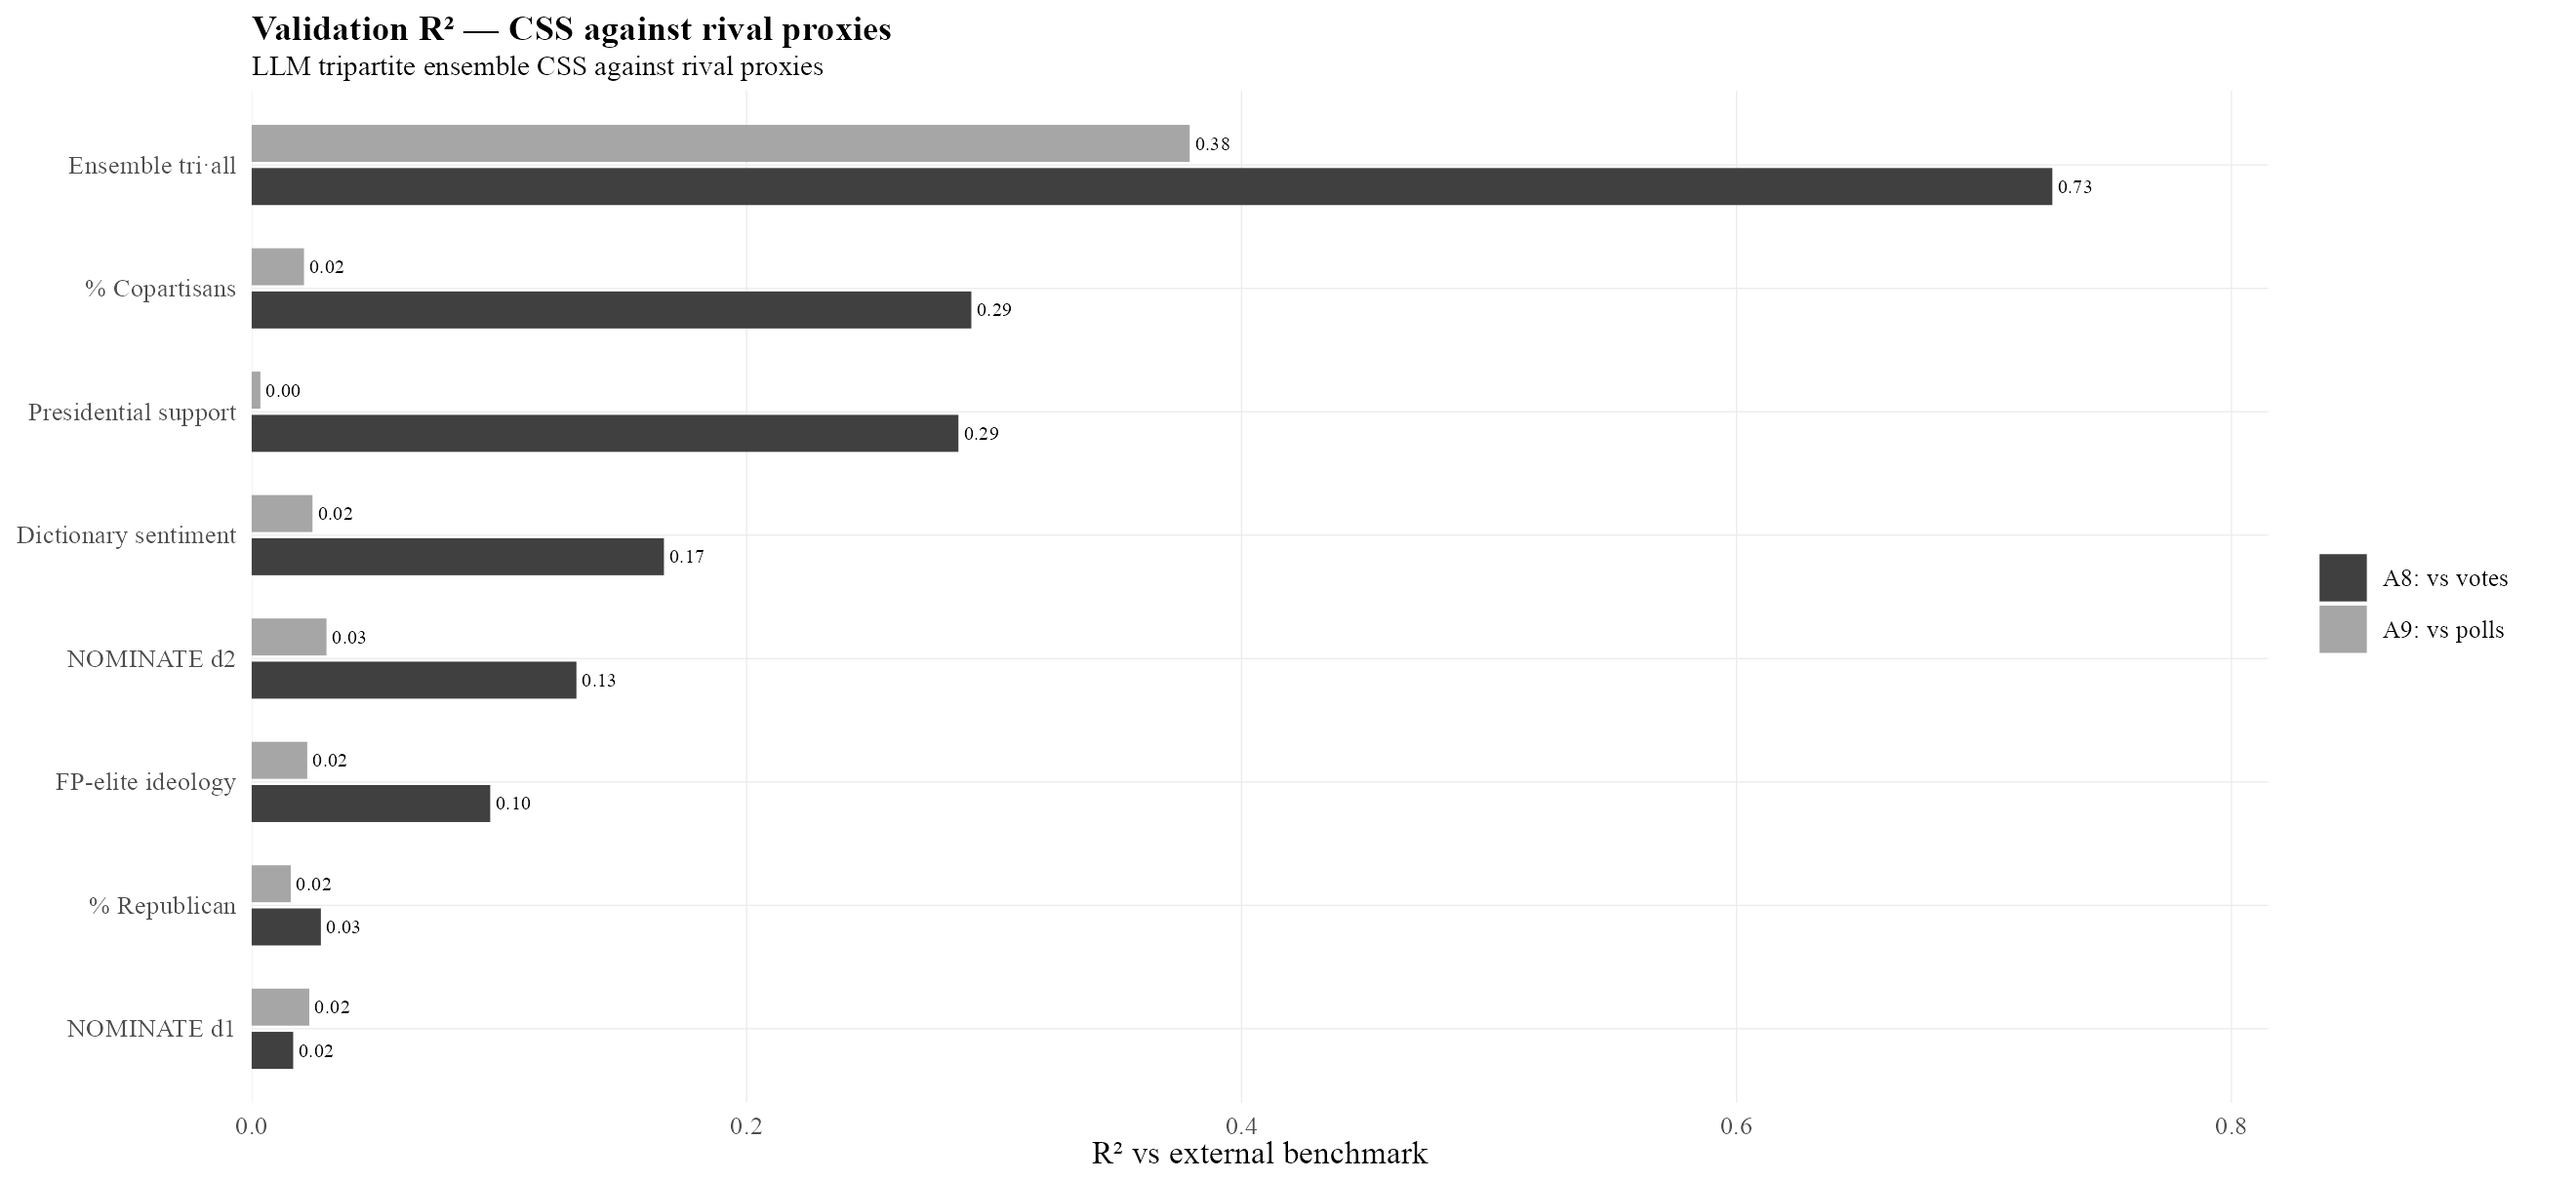
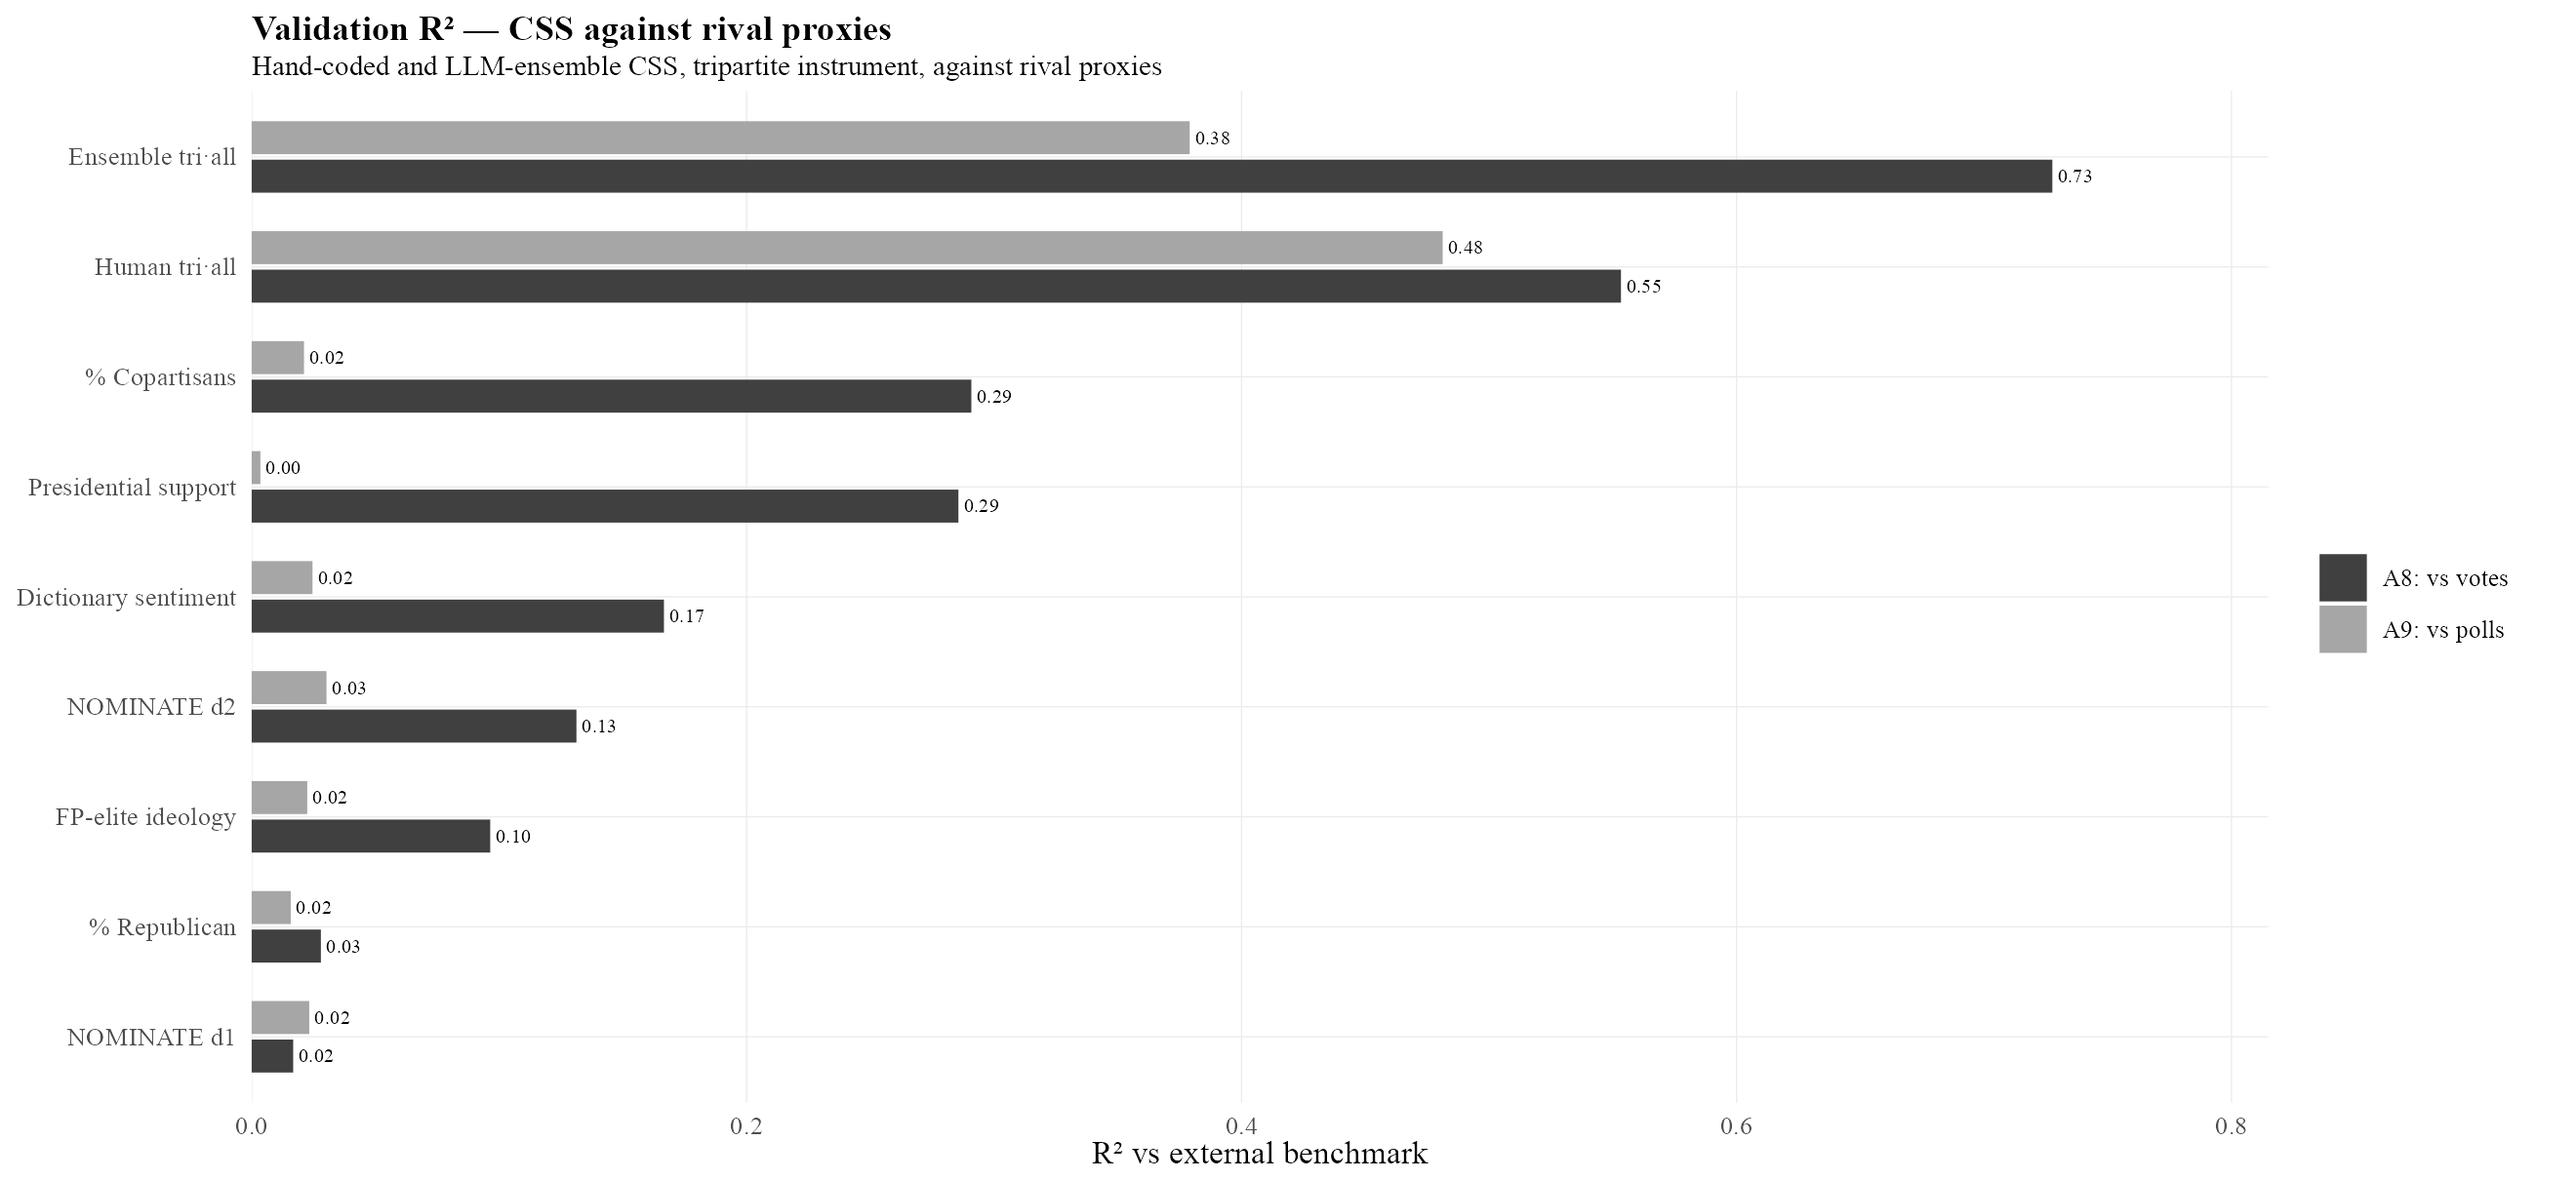
Correct the proration note on the crisis-level agreement figure
I had written that proration inflates agreement. Testing it shows the
opposite, and the effect is large.

Holding everything else fixed and varying only how thin crises are
handled (FP-elite, tripartite, statements through crisis end):

  min_n   prorate: all / human-machine   drop: all / human-machine
  5       0.764 / 0.599                  0.874 / 0.785
  10      0.783 / 0.628                  0.862 / 0.746
  20      0.806 / 0.646                  0.891 / 0.794

Proration costs about 0.11 of mean alpha at min_n=5 and about 0.19 on
the human-versus-model pairs specifically. The reason is that the count
of codeable speakers is not the same across coders - humans coded fewer
speakers than the models - so the shrinkage factor n/min_n differs by
coder and moves their scores apart rather than together.

Raising the floor from 5 to 10 does raise prorated alpha (0.764 to
0.783), but it rises monotonically all the way to min_n=20 while the
drop-based figures stay flat, which is the signature of an artifact of
shrinkage rather than a real gain in measurement quality.

Changed region(s): [[0.0, 0.0917, 0.8076, 0.9174], [0.0932, 0.0306, 0.3417, 0.0612], [0.3727, 0.0306, 0.4348, 0.0612]]

diff --git a/validation.html b/validation.html
@@ -21,7 +21,7 @@ a{color:#1a5fb4}
 <h1>Measurement validation</h1>
 <p class="tag">How the sentiment measures behave against external benchmarks, and how far
 independent coders agree at each level of aggregation.</p>
-<figure><h2>Explained variance against external benchmarks</h2><figcaption>Variance in two external benchmarks explained by each crisis-level measure: recorded use-of-force roll calls (A8) and contemporaneous public opinion (A9). The sentiment measure shown is the LLM tripartite ensemble; the remaining bars are the rival proxies against which it is conventionally judged &mdash; presidential support, NOMINATE dimensions, foreign-policy ideal points, dictionary sentiment, and partisan composition.</figcaption><a href="assets/validation/r2-table-1.png" target="_blank" rel="noopener"><img src="assets/validation/r2-table-1.png" alt="Explained variance against external benchmarks" loading="lazy"></a></figure><figure><h2>Predicting individual members&rsquo; force votes</h2><figcaption>Area under the ROC curve for predicting how an individual member voted on use-of-force roll calls, by measure. Speech-based instruments (the ISS) are compared against vote-derived rivals such as presidential support, NOMINATE dimensions and foreign-policy ideal points, and against structural baselines such as party. The comparison is at the member level and does not depend on which set of roll calls is used.</figcaption><a href="assets/validation/expanded-auc-1.png" target="_blank" rel="noopener"><img src="assets/validation/expanded-auc-1.png" alt="Predicting individual members&rsquo; force votes" loading="lazy"></a></figure><figure><h2>Inter-coder agreement &mdash; statement level</h2><figcaption>Krippendorff&rsquo;s &alpha; between every pair of coders (human, Grok, Luna, Gemini and the ensemble) on the tripartite instrument, computed on individual statements. This is the most demanding level of aggregation: it asks whether two coders assign the same position to the same sentence.</figcaption><a href="assets/validation/stmt-agreement-2.png" target="_blank" rel="noopener"><img src="assets/validation/stmt-agreement-2.png" alt="Inter-coder agreement &mdash; statement level" loading="lazy"></a></figure><figure><h2>Inter-coder agreement &mdash; member level (ISS)</h2><figcaption>The same &alpha; computed on the Individual Sentiment Score, that is, after statements are aggregated to one value per member per crisis. Aggregation averages away idiosyncratic disagreement on individual statements, so agreement is expected to exceed the statement level.</figcaption><a href="assets/validation/iss-agreement-2.png" target="_blank" rel="noopener"><img src="assets/validation/iss-agreement-2.png" alt="Inter-coder agreement &mdash; member level (ISS)" loading="lazy"></a></figure><figure><h2>Inter-coder agreement &mdash; crisis level (CSS)</h2><figcaption>The same &alpha; computed on the Congressional Sentiment Score, one value per crisis. This is the level at which the measure is actually used in analysis, and the level at which coder choice matters least.</figcaption><a href="assets/validation/css-agreement-2.png" target="_blank" rel="noopener"><img src="assets/validation/css-agreement-2.png" alt="Inter-coder agreement &mdash; crisis level (CSS)" loading="lazy"></a></figure>
+<figure><h2>Explained variance against external benchmarks</h2><figcaption>Variance in two external benchmarks explained by each crisis-level measure: recorded use-of-force roll calls (A8) and contemporaneous public opinion (A9). The sentiment measure shown is the LLM tripartite ensemble; the remaining bars are the rival proxies against which it is conventionally judged &mdash; presidential support, NOMINATE dimensions, foreign-policy ideal points, dictionary sentiment, and partisan composition.</figcaption><a href="assets/validation/r2-table-1.png" target="_blank" rel="noopener"><img src="assets/validation/r2-table-1.png" alt="Explained variance against external benchmarks" loading="lazy"></a></figure><figure><h2>Predicting individual members&rsquo; force votes</h2><figcaption>Area under the ROC curve for predicting how an individual member voted on use-of-force roll calls, by measure. Speech-based instruments (the ISS) are compared against vote-derived rivals such as presidential support, NOMINATE dimensions and foreign-policy ideal points, and against structural baselines such as party. The comparison is at the member level and does not depend on which set of roll calls is used.</figcaption><a href="assets/validation/expanded-auc-1.png" target="_blank" rel="noopener"><img src="assets/validation/expanded-auc-1.png" alt="Predicting individual members&rsquo; force votes" loading="lazy"></a></figure><figure><h2>Inter-coder agreement &mdash; statement level</h2><figcaption>Krippendorff&rsquo;s &alpha; between every pair of coders (human, Grok, Luna, Gemini and the ensemble) on the tripartite instrument, computed on individual statements. This is the most demanding level of aggregation: it asks whether two coders assign the same position to the same sentence.</figcaption><a href="assets/validation/stmt-agreement-2.png" target="_blank" rel="noopener"><img src="assets/validation/stmt-agreement-2.png" alt="Inter-coder agreement &mdash; statement level" loading="lazy"></a></figure><figure><h2>Inter-coder agreement &mdash; member level (ISS)</h2><figcaption>The same &alpha; computed on the Individual Sentiment Score, that is, after statements are aggregated to one value per member per crisis. Aggregation averages away idiosyncratic disagreement on individual statements, so agreement is expected to exceed the statement level.</figcaption><a href="assets/validation/iss-agreement-2.png" target="_blank" rel="noopener"><img src="assets/validation/iss-agreement-2.png" alt="Inter-coder agreement &mdash; member level (ISS)" loading="lazy"></a></figure><figure><h2>Inter-coder agreement &mdash; crisis level (CSS)</h2><figcaption>The same &alpha; computed on the Congressional Sentiment Score, one value per crisis, over FP-elite speakers and statements through the close of each crisis. Crisis scores are prorated: a crisis with fewer than five coded speakers is shrunk toward zero by the factor n/5 rather than being dropped. Proration depresses rather than inflates the reported agreement, because the number of codeable speakers differs by coder, so the shrinkage factor differs by coder and pushes their scores apart. Excluding thin crises instead of shrinking them raises mean &alpha; from 0.76 to 0.87, and the human-versus-model comparisons from 0.60 to 0.79. The figure therefore understates agreement.</figcaption><a href="assets/validation/css-agreement-2.png" target="_blank" rel="noopener"><img src="assets/validation/css-agreement-2.png" alt="Inter-coder agreement &mdash; crisis level (CSS)" loading="lazy"></a></figure>
 <div class="note">Figures are produced by the replication notebook and reproduced here without
 modification. Generated 2026-08-18.</div>
 </body></html>
